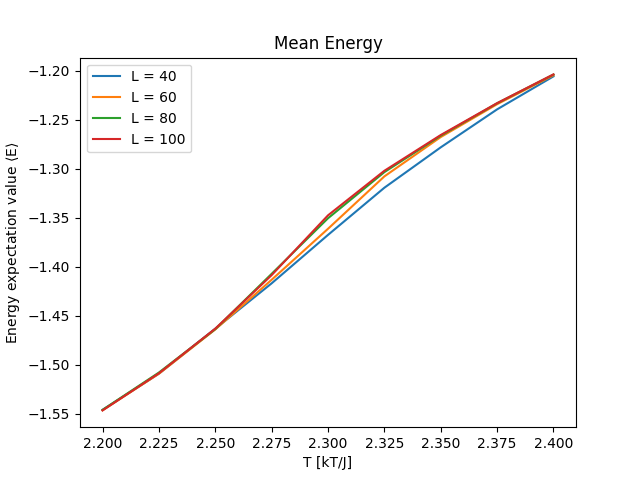
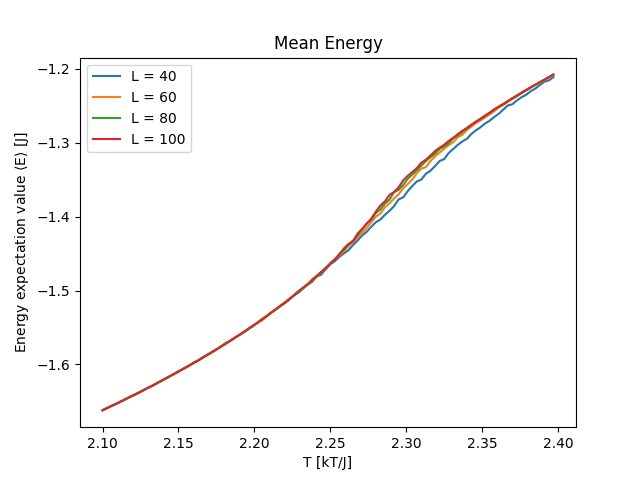
Last plotter fix and figures

diff --git a/Project4/Codes/plotter.py b/Project4/Codes/plotter.py
@@ -1,12 +1,14 @@
 import matplotlib.pyplot as plt
 import numpy as np
-
+import os
 print("Which Project Task do you want to run")
 print("Task C - Equilibrium State: Write c")
 print("Task D - Probability Histogram: Write d")
 print("Task E & F - Phase Transitions & Critical Temperature: Write e")
 Task = input("Write here: ")
 
+tablesdir = os.path.join(os.path.dirname(__file__), '..', 'Tables')
+plotsdir = os.path.join(os.path.dirname(__file__), '..', 'Results/Plots')
 """
 -------------
 Equilibrium
@@ -29,7 +31,7 @@ if Task == "c":
     NconfigsU = []
     NconfigsU2 = []
     for i in (filenames):
-        with open(i) as file:
+        with open(os.path.join(tablesdir,i)) as file:
             lines = file.readlines()
             #Skip the first two lines
             for j in range(2,len(lines)):
@@ -44,7 +46,7 @@ if Task == "c":
                     magO2.append(float(pieces[2]))
 
     for i in (filenames2):
-        with open(i) as file:
+        with open(os.path.join(tablesdir,i)) as file:
             lines = file.readlines()
             #Skip the first two lines
             for j in range(2,len(lines)):
@@ -66,6 +68,7 @@ if Task == "c":
     plt.legend(["T = 1.0","T = 2.4"])
     plt.xlabel("# of Monte Carlo cycles")
     plt.ylabel("Energy expectation value $\langle$E$\\rangle$ [J]")
+    plt.savefig(os.path.join(plotsdir,"Energy_exp_ordered.png"))
 
     plt.figure()
     plt.title("Unordered")
@@ -74,6 +77,7 @@ if Task == "c":
     plt.legend(["T = 1.0","T = 2.4"])
     plt.xlabel("# of Monte Carlo cycles")
     plt.ylabel("Energy expectation value $\langle$E$\\rangle$ [J]")
+    plt.savefig(os.path.join(plotsdir,"Energy_exp_unordered.png"))
 
     plt.figure()
     plt.title("Ordered")
@@ -82,6 +86,8 @@ if Task == "c":
     plt.legend(["T = 1.0","T = 2.4"])
     plt.xlabel("# of Monte Carlo cycles")
     plt.ylabel("Magnetization expectation value $\langle$|M|$\\rangle$ [1]")
+    plt.savefig(os.path.join(plotsdir,"Magn_exp_ordered.png"))
+
 
     plt.figure()
     plt.title("Unordered")
@@ -90,6 +96,7 @@ if Task == "c":
     plt.legend(["T = 1.0","T = 2.4"])
     plt.xlabel("# of Monte Carlo cycles")
     plt.ylabel("Magnetization expectation value $\langle$|M|$\\rangle$ [1]")
+    plt.savefig(os.path.join(plotsdir,"Magn_exp_unordered.png"))
 
     plt.figure()
     plt.title("Unordered")
@@ -98,10 +105,11 @@ if Task == "c":
     plt.legend(["T = 1.0","T = 2.4"])
     plt.xlabel("# of Monte Carlo cycles")
     plt.ylabel("Accepted configurations (normalized)")
+    plt.savefig(os.path.join(plotsdir,"Accepted_configs_unordered.png"))
 
     Temp = []
     configs = []
-    with open("Nconfig_vs_Temp") as file:
+    with open(os.path.join(tablesdir,"Nconfig_vs_Temp")) as file:
         lines = file.readlines()
         for i in range(2,len(lines)):
 
@@ -113,6 +121,7 @@ if Task == "c":
     plt.xlabel("Temperature [kT/J]")
     plt.ylabel("Accepted number of configurations (normalized)")
     plt.title("Accepted number of configurations (normalized) as a function of T")
+    plt.savefig(os.path.join(plotsdir,"Accepted_configs_temperature.png"))
     plt.show()
 
 """
@@ -126,7 +135,7 @@ if Task == "d":
 
 
     for i in filenames:
-        with open(i) as file:
+        with open(os.path.join(tablesdir,i)) as file:
             lines = file.readlines()
         Energies = []
         counts = []
@@ -144,18 +153,22 @@ if Task == "d":
                 most_probable_energy = energy
         plt.bar(Energies,counts,width = 4 if i == "Probability_1" else 3)
         plt.xlim(-805,-770) if i == "Probability_1" else plt.xlim(-705,-305)
-        plt.xlabel("Energy")
+        plt.xlabel("Energy [J]")
         plt.ylabel("Energy counts")
+        plt.tight_layout()
+        plt.subplots_adjust(top=0.88)
+
         if i == "Probability_1":
             plt.title("T = 1.0")
         else:
             plt.title("T = 2.4")
         props = dict(boxstyle='round', facecolor='wheat', alpha=1)
         plt.text(0.05*(plt.xlim()[1]-plt.xlim()[0])+plt.xlim()[0] ,plt.ylim()[1]*0.85, "Most probable energy:\n" + str(most_probable_energy), bbox = props)
+        plt.savefig(os.path.join(plotsdir,i+".png"))
         plt.show()
 
 if Task == "e":
-    with open("Temperature") as file:
+    with open(os.path.join(tablesdir,"Temperature_100")) as file:
         lines = file.readlines()
     temps = []
     energylist = []
@@ -197,6 +210,7 @@ if Task == "e":
     for i in range(int(len(energylist)/len(temps))):
         plt.plot(temps,energylist[i*len(temps):len(temps)*(i+1)],"")
     plt.legend(["L = 40","L = 60","L = 80","L = 100"])
+    plt.savefig(os.path.join(plotsdir,"Phase_trans_energy.png"))
 
     plt.figure()
     plt.title("Absolute mean Magnetization")
@@ -205,6 +219,8 @@ if Task == "e":
     for i in range(int(len(energylist)/len(temps))):
         plt.plot(temps,maglist[i*len(temps):len(temps)*(i+1)],"")
     plt.legend(["L = 40","L = 60","L = 80","L = 100"])
+    plt.savefig(os.path.join(plotsdir,"Phase_trans_mag.png"))
+
 
     plt.figure()
     plt.title("Specific heat")
@@ -213,6 +229,7 @@ if Task == "e":
     for i in range(int(len(energylist)/len(temps))):
         plt.plot(temps,Cvlist[i*len(temps):len(temps)*(i+1)],"")
     plt.legend(["L = 40","L = 60","L = 80","L = 100"])
+    plt.savefig(os.path.join(plotsdir,"Phase_trans_Cv.png"))
 
 
     plt.figure()
@@ -222,6 +239,8 @@ if Task == "e":
     for i in range(int(len(energylist)/len(temps))):
         plt.plot(temps,Suscplist[i*len(temps):len(temps)*(i+1)],"")
     plt.legend(["L = 40","L = 60","L = 80","L = 100"])
+    plt.savefig(os.path.join(plotsdir,"Phase_trans_suscp.png"))
+
     plt.show()
 
     """
@@ -243,6 +262,7 @@ if Task == "e":
     plt.plot(Llist,TCCv,"o")
     plt.plot(Llist,np.polyval(linreg1,Llist))
     plt.legend(["$T_C$(L) from simulations","$T_C(L)$ = a$\\cdot$ $\\frac{1}{L}$ + $T_C(L = \infty)$ $\\to$ %g$\\cdot$x + %g" % (linreg1[0],linreg1[1])])
+    plt.savefig(os.path.join(plotsdir,"linregCv.png"))
 
     plt.figure()
     plt.title("Susceptibility $\chi$")
@@ -251,6 +271,7 @@ if Task == "e":
     plt.plot(Llist,TCX,"o")
     plt.plot(Llist,np.polyval(linreg2,Llist))
     plt.legend(["$T_C$(L) from simulations","$T_C(L)$ = a$\\cdot$ $\\frac{1}{L}$ + $T_C(L = \infty)$ $\\to$ %g$\\cdot$x + %g" % (linreg2[0],linreg2[1])])
+    plt.savefig(os.path.join(plotsdir,"linregX.png"))
 
     print("\n")
     print("The estimated Critical Temperature from our simulations is Tc = %g " % (0.5*(linreg1[1]+linreg2[1])))
